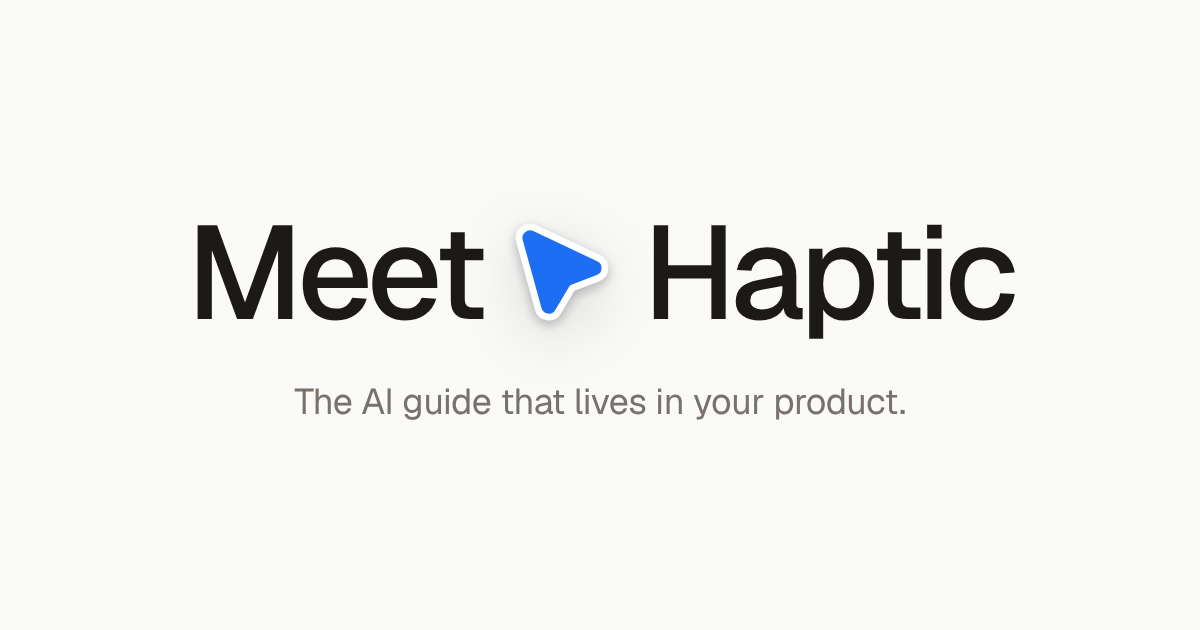
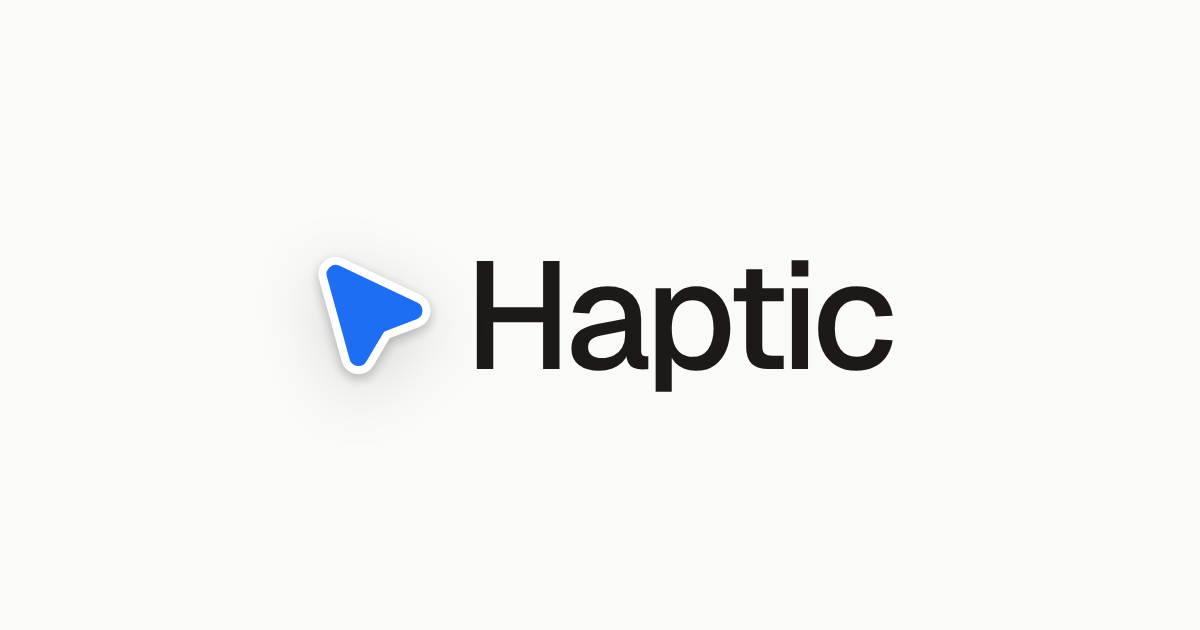
Show only the pointer and the name in the link preview
The picture a shared link shows is now the pointer beside the name
Haptic, without "Meet" or the tagline. The line under it reads "The AI
guide that lives in your product", and the browser tab title on the home
page carries the same line after the name.

Claude-Session: https://claude.ai/code/session_01GjEQw55mQRkMYqJpqBSuTU

Changed region(s): [[0.1542, 0.3619, 0.8633, 0.6635]]

diff --git a/web/app/layout.tsx b/web/app/layout.tsx
@@ -10,16 +10,17 @@ const geist = Geist({
 
 export const metadata: Metadata = {
   metadataBase: new URL(site.url),
-  title: { default: site.name, template: `%s, ${site.name}` },
+  title: { default: `${site.name}, ${site.headline.replace(/^The/, "the")}`, template: `%s, ${site.name}` },
   description: site.description,
+  // A shared link shows the picture, which carries the name, with this line under it.
   openGraph: {
-    title: site.name,
+    title: site.headline,
     description: site.description,
     url: site.url,
     siteName: site.name,
     type: "website",
   },
-  twitter: { card: "summary_large_image", title: site.name, description: site.description },
+  twitter: { card: "summary_large_image", title: site.headline, description: site.description },
 };
 
 export const viewport: Viewport = {

diff --git a/web/lib/site.ts b/web/lib/site.ts
@@ -4,6 +4,8 @@ export const site = {
   url: "https://joinhaptic.com",
   email: "hello@joinhaptic.com",
   tagline: "The AI guide that lives in your product.",
+  /** The line under the picture when a link to the site is shared, and the end of the browser tab title. */
+  headline: "The AI guide that lives in your product",
   description:
     "The AI guide that lives in your product. People say what they want to do, and Haptic points to exactly where to click, step by step.",
 } as const;

diff --git a/DESIGN.md b/DESIGN.md
@@ -368,6 +368,11 @@ in its back edge, tilted so the tip points up and to the left. It is drawn on a
 every pointer in the product and on the site is that one path. It is also the
 logo mark and the favicon, where it is Ink with a white border.
 
+**The link preview.** When a link to the site is shared in a message, the
+picture is the pointer and the name Haptic on Paper, and nothing else. The
+pointer there is the live one, Pointer blue with its white border and shadow.
+The line under the picture is "The AI guide that lives in your product".
+
 The pointer's tip sits in the lower right corner of whatever it points at, so
 the pointer hangs off the control and never covers its label.
 
